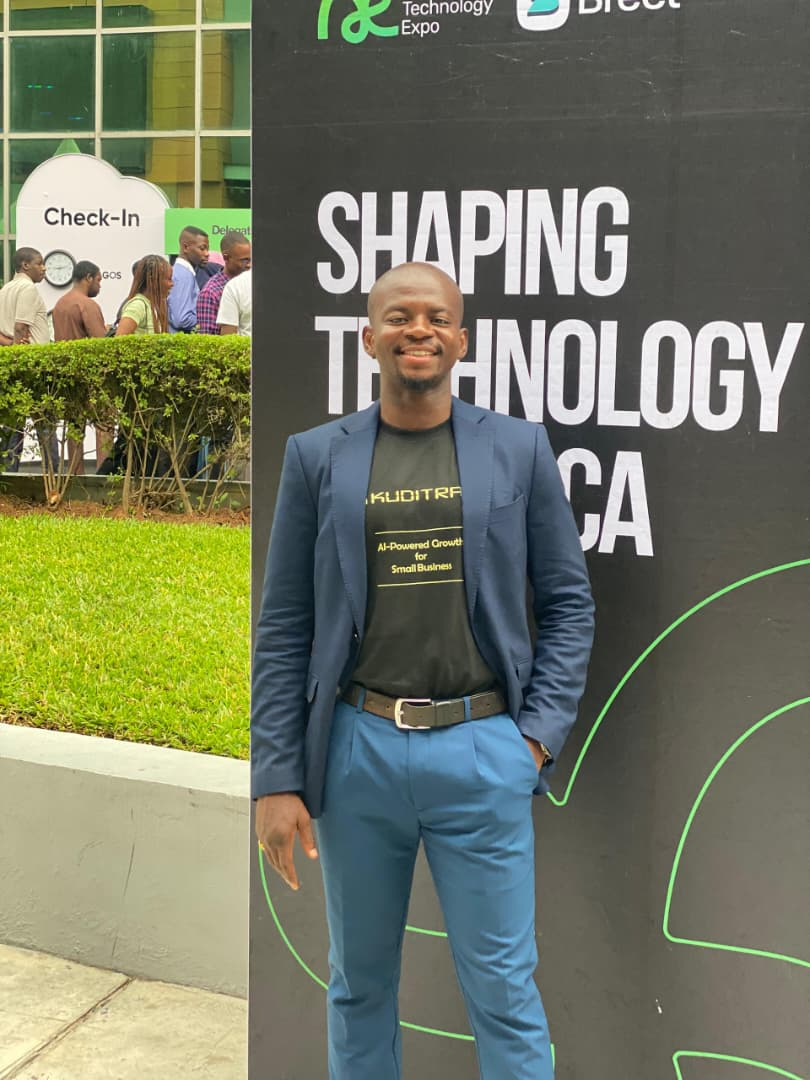
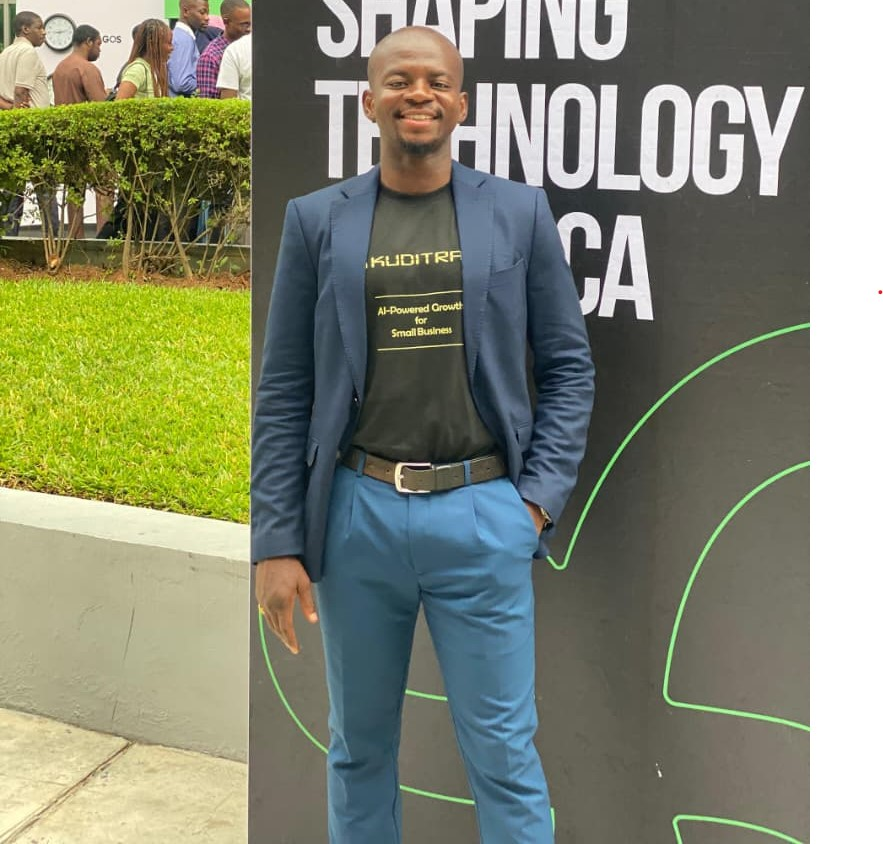
done with home page

diff --git a/src/app/components/home-section.tsx b/src/app/components/home-section.tsx
@@ -2,8 +2,23 @@
 import React from "react";
 import { Briefcase, FileText, Scale, Shield, Award, Users, Zap, Lightbulb, Handshake, Globe } from "lucide-react";
 import Image from "next/image";
-import { motion } from "framer-motion"; // ✅ Animation
+import { AnimatePresence, motion } from "framer-motion"; // ✅ Animation
+import { useEffect, useState } from "react"
 
+const testimonials = [
+  {
+    text: "Adipiscing nam neque hendrerit nec pellentesque diam a. Varius quisque odio mauris lectus consequat sed. Pretium purus feugiat volutpat.",
+    author: "– Irvine Guzman",
+  },
+  {
+    text: "Lorem ipsum dolor sit amet, consectetur adipiscing elit. Integer nec odio. Praesent libero. Sed cursus ante dapibus.",
+    author: "– Maria Lopez",
+  },
+  {
+    text: "Suspendisse potenti. Morbi mattis ullamcorper velit. Phasellus gravida semper nisi. Nullam vel sem.",
+    author: "– John Doe",
+  },
+]
 /* ==================== SERVICES ==================== */
 const ServicesSection = () => (
   <section className="py-16 bg-white">
@@ -92,7 +107,7 @@ const CoreValuesSection = () => {
 const CTASection = () => (
   <section className="bg-gradient-to-r from-black to-gray-900 text-center py-12 text-white">
     <h2 className="text-2xl font-bold">Have Legal Questions? Ask Our Experts!</h2>
-    <button className="mt-6 px-6 py-3 bg-amber-600 hover:bg-amber-700 rounded">
+    <button className="mt-6 px-6 py-3 bg-yellow-600 hover:bg-amber-700 rounded">
       Ask an Expert
     </button>
   </section>
@@ -115,9 +130,9 @@ const AttorneysSection = () => (
           {/* Image */}
           <Image
             src={attorney.image}
-            alt={attorney.name}
-            width={400}   // ✅ Added width
-            height={500}  // ✅ Added height
+            alt={attorney.name} 
+            width={400}  
+            height={500}  
             className="w-full aspect-[3/4] object-cover rounded-md mb-4"
           />
 
@@ -149,37 +164,50 @@ const FeatureSection = () => (
           Beyond delivering sound legal advice, we position ourselves as long-term partners; 
           helping clients anticipate risks, seize opportunities, and structure solutions that support growth and sustainability.
         </p>
-        <button className="mt-6 px-6 py-3 bg-amber-600 hover:bg-amber-700 rounded">
-          Learn more
-        </button>
       </div>
     </div>
   </section>
 )
 
-const TestimonialsSection = () => (
-  <section className="py-16 bg-gray-50">
-    <div className="max-w-6xl mx-auto text-center">
-      <h2 className="text-2xl font-bold text-gray-800">What Our Client Says</h2>
-      <div className="mt-10 grid md:grid-cols-2 gap-10 items-center">
-        <blockquote className="text-gray-600 text-lg italic">
-          &quot;Adipiscing nam neque hendrerit nec pellentesque diam a. Varius quisque odio 
-          mauris lectus consequat sed. Pretium purus feugiat volutpat.&quot;
-          <footer className="mt-4 font-semibold">– Irvine Guzman</footer>
-        </blockquote>
-        <div>
-          <Image
-            src="/images/exe.jpg"
-            alt="legal excellence"
-            width={600}   // ✅ Fixed
-            height={400}  // ✅ Fixed
-            className="w-full object-cover rounded-md mb-4"
-          />
+const TestimonialsSection = () => {
+  const [index, setIndex] = useState(0)
+
+  useEffect(() => {
+    const interval = setInterval(() => {
+      setIndex((prev) => (prev + 1) % testimonials.length)
+    }, 5000) // ⏳ change every 5 seconds
+    return () => clearInterval(interval)
+  }, [])
+
+  return (
+    <section className="py-16 bg-gray-50">
+      <div className="max-w-4xl mx-auto text-center">
+        <h2 className="text-2xl font-bold text-gray-800">
+          What Our Client Says
+        </h2>
+
+        <div className="mt-10 h-40 flex items-center justify-center">
+          <AnimatePresence mode="wait">
+            <motion.blockquote
+              key={index}
+              initial={{ opacity: 0, x: -50 }}
+              animate={{ opacity: 1, x: 0 }}
+              exit={{ opacity: 0, x: 50 }}
+              transition={{ duration: 0.6 }}
+              className="text-gray-600 text-lg italic"
+            >
+              &quot;{testimonials[index].text}&quot;
+              <footer className="mt-4 font-semibold">
+                {testimonials[index].author}
+              </footer>
+            </motion.blockquote>
+          </AnimatePresence>
         </div>
       </div>
-    </div>
-  </section>
-)
+    </section>
+  )
+}
+
 
 const ConsultationFormSection = () => (
   <section className="py-16 bg-gradient-to-r from-black to-gray-900 text-white">

diff --git a/src/app/components/service.tsx b/src/app/components/service.tsx
@@ -59,13 +59,12 @@ const ServicesPage = () => {
             with modern strategies to deliver practical and effective results.
           </p>
         </motion.div>
-
         <div className="grid grid-cols-2 gap-6">
           {[
-            { icon: "⚖", title: "Criminal Law" },
-            { icon: "📑", title: "Business Law" },
-            { icon: "🏛", title: "Civil Litigation" },
-            { icon: "📜", title: "Family Law" },
+{ icon: "⚖", title: "Corporate & Commercial Law" },
+{ icon: "📋", title: "Corporate Governance & Compliance" },
+{ icon: "🤝", title: "Client-Centered Practice" },
+{ icon: "💰", title: "Financial Services" },
           ].map((service, idx) => (
             <motion.div
               key={idx}
@@ -347,72 +346,6 @@ const ServicesPage = () => {
                 nec odio. Praesent libero. Sed cursus ante dapibus diam.
               </p>
             </motion.details>
-          ))}
-        </div>
-      </section>
-
-      {/* ================= PRICING ================= */}
-      <section className="max-w-7xl mx-auto py-16 px-6">
-        <motion.h2
-          initial={{ opacity: 0, y: 20 }}
-          whileInView={{ opacity: 1, y: 0 }}
-          transition={{ duration: 0.6 }}
-          viewport={{ once: true }}
-          className="text-2xl font-bold text-gray-800 text-center"
-        >
-          Choose Your Plan
-        </motion.h2>
-        <div className="mt-10 grid md:grid-cols-3 gap-8">
-          {[
-            {
-              title: "Starter",
-              price: "$99",
-              features: ["1 Consultation", "Basic Legal Advice", "Email Support"],
-            },
-            {
-              title: "Business",
-              price: "$299",
-              features: [
-                "5 Consultations",
-                "Contract Drafting",
-                "Priority Support",
-              ],
-            },
-            {
-              title: "Fixed Plan",
-              price: "$499",
-              features: [
-                "Unlimited Consultations",
-                "Court Representation",
-                "Full Support",
-              ],
-            },
-          ].map((plan, idx) => (
-            <motion.div
-              key={idx}
-              custom={idx}
-              variants={fadeUp}
-              initial="hidden"
-              whileInView="show"
-              viewport={{ once: true }}
-              className="bg-white shadow-md rounded-lg p-8 text-center"
-            >
-              <h3 className="font-bold text-xl text-gray-800">{plan.title}</h3>
-              <p className="text-3xl font-bold text-yellow-700 mt-4">
-                {plan.price}
-              </p>
-              <ul className="mt-6 space-y-2 text-gray-600 text-sm">
-                {plan.features.map((f, i) => (
-                  <li key={i}>✔ {f}</li>
-                ))}
-              </ul>
-              <motion.button
-                whileHover={{ scale: 1.05 }}
-                className="mt-6 bg-gray-900 text-white px-6 py-2 rounded-md hover:bg-gray-700 transition"
-              >
-                Choose Plan
-              </motion.button>
-            </motion.div>
           ))}
         </div>
       </section>

diff --git a/src/app/components/contactUs.tsx b/src/app/components/contactUs.tsx
@@ -45,10 +45,11 @@ const ContactUsPage = () => {
             <div className="grid grid-cols-2 gap-4">
               <input type="email" placeholder="Your Email" className="w-full p-3 border rounded-md" />
               <select className="bg-black w-full p-3 border rounded-md">
-                <option>Civil Law</option>
-                <option>Criminal Law</option>
-                <option>Family Law</option>
-                <option>Corporate Law</option>
+                <option>Corporate & Commercial Law</option>
+                <option>Corporate Governance & Compliance</option>
+                <option>Litigation & Dispute Resolution</option>
+                <option>Regulatory Advisory</option>
+                <option>Other</option>
               </select>
             </div>
             <input type="text" placeholder="Subject" className="w-full p-3 border rounded-md" />
@@ -66,7 +67,7 @@ const ContactUsPage = () => {
       {/* ==================== MAP ==================== */}
       <section className="relative w-full h-96">
         <Image 
-          src="/images/Map@2x.png" 
+          src="/images/Map@2x.jpg" 
           alt="Map" 
           fill 
           className="object-cover rounded-md"

diff --git a/src/app/globals.css b/src/app/globals.css
@@ -1,26 +1,8 @@
 @import "tailwindcss";
-
-/* :root {
-  --background: #ffffff;
-  --foreground: #171717;
+body {
+  font-family: var(--font-roboto), sans-serif;
 }
 
-@theme inline {
-  --color-background: var(--background);
-  --color-foreground: var(--foreground);
-  --font-sans: var(--font-geist-sans);
-  --font-mono: var(--font-geist-mono);
-} */
-
-/* @media (prefers-color-scheme: dark) {
-  :root {
-    --background: #0a0a0a;
-    --foreground: #ededed;
-  }
-} */
-
-/* body {
-  background: var(--background);
-  color: var(--foreground);
-  font-family: Arial, Helvetica, sans-serif;
+/* h1, h2 {
+  font-family: var(--font-playfair), serif;
 } */

diff --git a/src/app/components/aboutUs.tsx b/src/app/components/aboutUs.tsx
@@ -109,10 +109,10 @@ const AboutUsPage = () => {
 
           <div className="grid grid-cols-2 md:grid-cols-4 gap-6 mt-12">
             {[
-              { value: "1200+", label: "Cases Won" },
+              { value: "100+", label: "Cases Won" },
               { value: "98%", label: "Client Satisfaction" },
-              { value: "32", label: "Expert Attorneys" },
-              { value: "1800", label: "Happy Clients" },
+              { value: "10", label: "Expert Attorneys" },
+              { value: "100+", label: "Happy Clients" },
             ].map((stat, idx) => (
               <motion.div
                 key={idx}

diff --git a/src/app/components/hero.tsx b/src/app/components/hero.tsx
@@ -7,7 +7,7 @@ const HeroSection = () => {
       <p className="mt-4 text-gray-300 max-w-xl mx-auto">
         “Your Trusted Legal Partner in Excellence and Integrity”
       </p>
-      <button className="mt-8 px-6 py-3 bg-amber-700 hover:bg-amber-800 rounded shadow-md transition">
+      <button className="mt-8 px-6 py-3  bg-yellow-500 hover:bg-amber-800 rounded shadow-md transition">
         Make enquiry
       </button>
     </section>

diff --git a/src/app/components/trusted.tsx b/src/app/components/trusted.tsx
@@ -54,7 +54,7 @@ Since our registration, we have steadily grown in scope and capability. Our team
             }`}
           >
             <Image 
-              src="/images/ourStory.jpg" 
+              src="/images/ourStori.jpg" 
               alt="Julio Jefferson" 
               fill
               className="object-cover rounded-md"

diff --git a/src/app/page.tsx b/src/app/page.tsx
@@ -1,5 +1,5 @@
 import HomePage from "./home/page";
-
+import "./globals.css";
 export default function Home() {
   return (
    <div>
